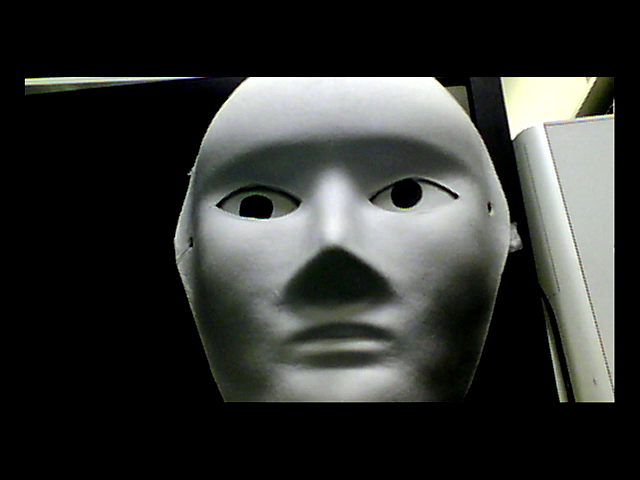
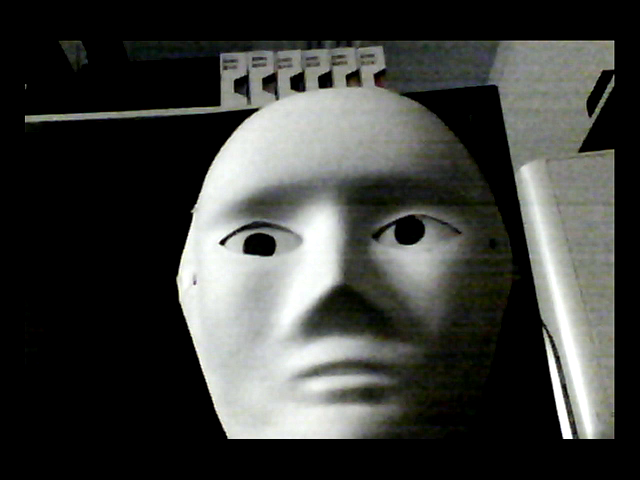
本当に連続取得できるようになった

diff --git a/rtsp_sample.py b/rtsp_sample.py
@@ -176,9 +176,13 @@ if preview_flug == 1:
 if get_flug == 1:
     flug = 1
     count = 0
+    Face_flug = False
     print("flug=0まではOK")
+
     with rtsp.Client(rtsp_server_uri) as client:
-        client.preview()
+        #client.preview()
+        print("setting...")
+        time.sleep(5)
         while True:
             #ループ回数を表示
             count = count +1
@@ -186,30 +190,31 @@ if get_flug == 1:
             #_image = client.read()
             #im = np.asarray(_image)[:, :, ::-1]
             #cv2.imshow('flir', im)
-            key=cv2.waitKey(1)
+            key=cv2.waitKey(100)
             #       key=input(block=False)
             #フラグが1の時にはカラー画像(顔検出)
             if flug==1:
                 testENIP(1)
+                time.sleep(2)
                 print("RGB画像に切り替え中．．．")
-                time.sleep(1)
                 _image = client.read()
-                im = np.asarray(_image)[:, :, ::-1]
-                cv2.imshow('flir', im)
+                RGB_img= np.asarray(_image)[:, :, ::-1]
+                cv2.imshow('flir', RGB_img)
+                time.sleep(2)
                 #r = requests.get(vis_uri)
                 flug=2
                 #r = requests.get(vis_uri2)
                 print("testENIP == 1\n")
                 print("**************************\n")
-                print("im.shape=\n")
-                print(im.shape)
+                print("RGB_img.shape=\n")
+                print(RGB_img.shape)
                 # 処理速度を高めるために画像をグレースケールに変換したものを用意
-                gray = cv2.cvtColor(im, cv2.COLOR_BGR2GRAY)
+                gray = cv2.cvtColor(RGB_img, cv2.COLOR_BGR2GRAY)
                 print("グレイスケール画像を表示....")
                 cv2.imshow('flir', gray)
                 #認識結果の保存
                 cv2.imwrite('./result/test1_gray.png', gray)
-                cv2.imwrite('./result/test1_RGB.png', im)
+                cv2.imwrite('./result/test1_RGB.png', RGB_img)
                 time.sleep(2)
 
                 # 顔検出
@@ -233,28 +238,34 @@ if get_flug == 1:
                         print("face_gray.shape==")
                         print(face_gray.shape)
                         cv2.rectangle(
-                            im,
+                            RGB_img,
                             (x, y),
                             (x + w, y + h),
                             (255, 255, 255),
                             thickness=2
                         )
+                        Face_flug = True
 
                     #認識結果の表示
-                    #cv2.imshow('flir', im)
-                    #cv2.imwrite('./result/test1_detect.png', im)
-                time.sleep(2)
+                    cv2.imshow('flir', RGB_img)
+                    cv2.imwrite('./result/test1_detect.png', RGB_img)
+                #time.sleep(2)
 
 
             else:
                 testENIP(2)
-                print("IR画像に切り替え中．．．")
-                time.sleep(1)
-                _image = client.read()
-                im = np.asarray(_image)[:, :, ::-1]
-                cv2.imshow('flir', im)
-                print("testENIP == 2 \n")
                 time.sleep(2)
+                print("IR画像に切り替え中．．．")
+                _image = client.read()
+                IR_img = np.asarray(_image)[:, :, ::-1]
+                cv2.imshow('flir', IR_img)
+                if Face_flug == True:
+                    print("Face_FlugはTrueだ！\nfacerect.shape = ")
+                    print(facerect)
+                    Face_flug = False
+                time.sleep(2)
+                print("testENIP == 2 \n")
+                #time.sleep(2)
                 #r = requests.get(ir_uri)
                 flug=1
 
